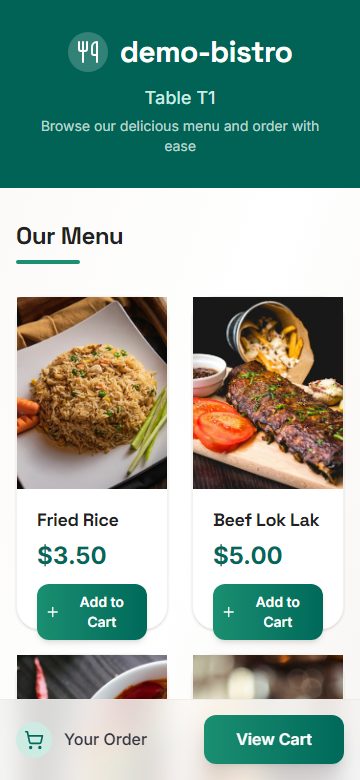
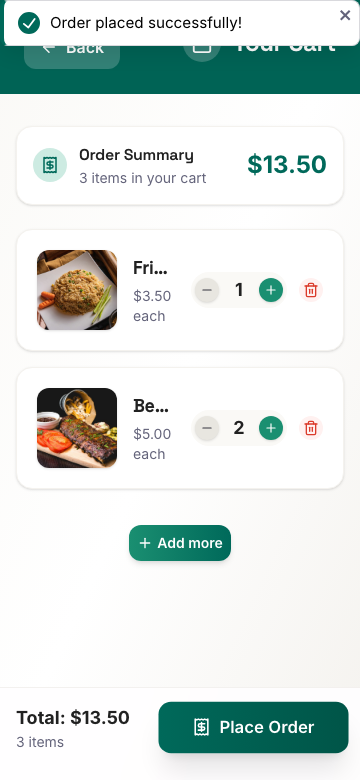
docs(showcase): VM-07 before/after shots of the moment after ordering

diff --git a/docs/showcase/capture.ts b/docs/showcase/capture.ts
@@ -470,6 +470,41 @@ for (const [vp, theme] of [
     });
 }
 
+// VM-07: right after ordering. Before: a toast, then back to the menu. After: the confirmation.
+for (const [vp, theme] of [
+    [DESKTOP, "light"],
+    [DESKTOP, "dark"],
+    [PHONE, "light"],
+] as const) {
+    await step(`VM-07 after ordering ${vp.width} ${theme}`, async () => {
+        // start from a settled table, so the list shows this visit only
+        const staff = await newPage(browser, vp, theme, "cashier");
+        const bills = (await (await staff.page.request.get(`${BASE}/api/orders/${SLUG}/bills`)).json()) as {
+            _id: string;
+            table: string;
+            isPayed: boolean;
+        }[];
+        for (const b of bills.filter((b) => b.table === "T2" && !b.isPayed))
+            await staff.page.request.patch(`${BASE}/api/orders/${SLUG}/bills/${b._id}`, { data: { isPayed: true } });
+        await staff.context.close();
+
+        const { context, page } = await newPage(browser, vp, theme);
+        const menu = (await (await page.request.get(`${BASE}/api/menu/${SLUG}/public/items`)).json()) as { _id: string }[];
+        const lines = menu.slice(0, 2).map((item, i) => ({ item, quantity: i + 1 }));
+        await context.addInitScript(([key, value]) => localStorage.setItem(key, value), [`cart:${SLUG}:T2`, JSON.stringify(lines)]);
+        await page.goto(`${BASE}/${SLUG}/customer/T2`); // like a customer: menu, then cart
+        await settle(page);
+        await page.goto(`${BASE}/${SLUG}/customer/T2/cart`);
+        await settle(page);
+        await page.getByRole("button", { name: /place order/i }).click();
+        await page.waitForTimeout(1000);
+        await shot({ page, theme, width: vp.width }, "VM-07-after-order", vp === PHONE);
+        await page.waitForTimeout(2500); // before: back on the menu by now, nothing to show for the order
+        await shot({ page, theme, width: vp.width }, "VM-07-after-order-3s", false);
+        await context.close();
+    });
+}
+
 // ---------------------------------------------------------------- owner
 for (const theme of ["light", "dark"] as const) {
     await step(`owner ${theme}`, async () => {
